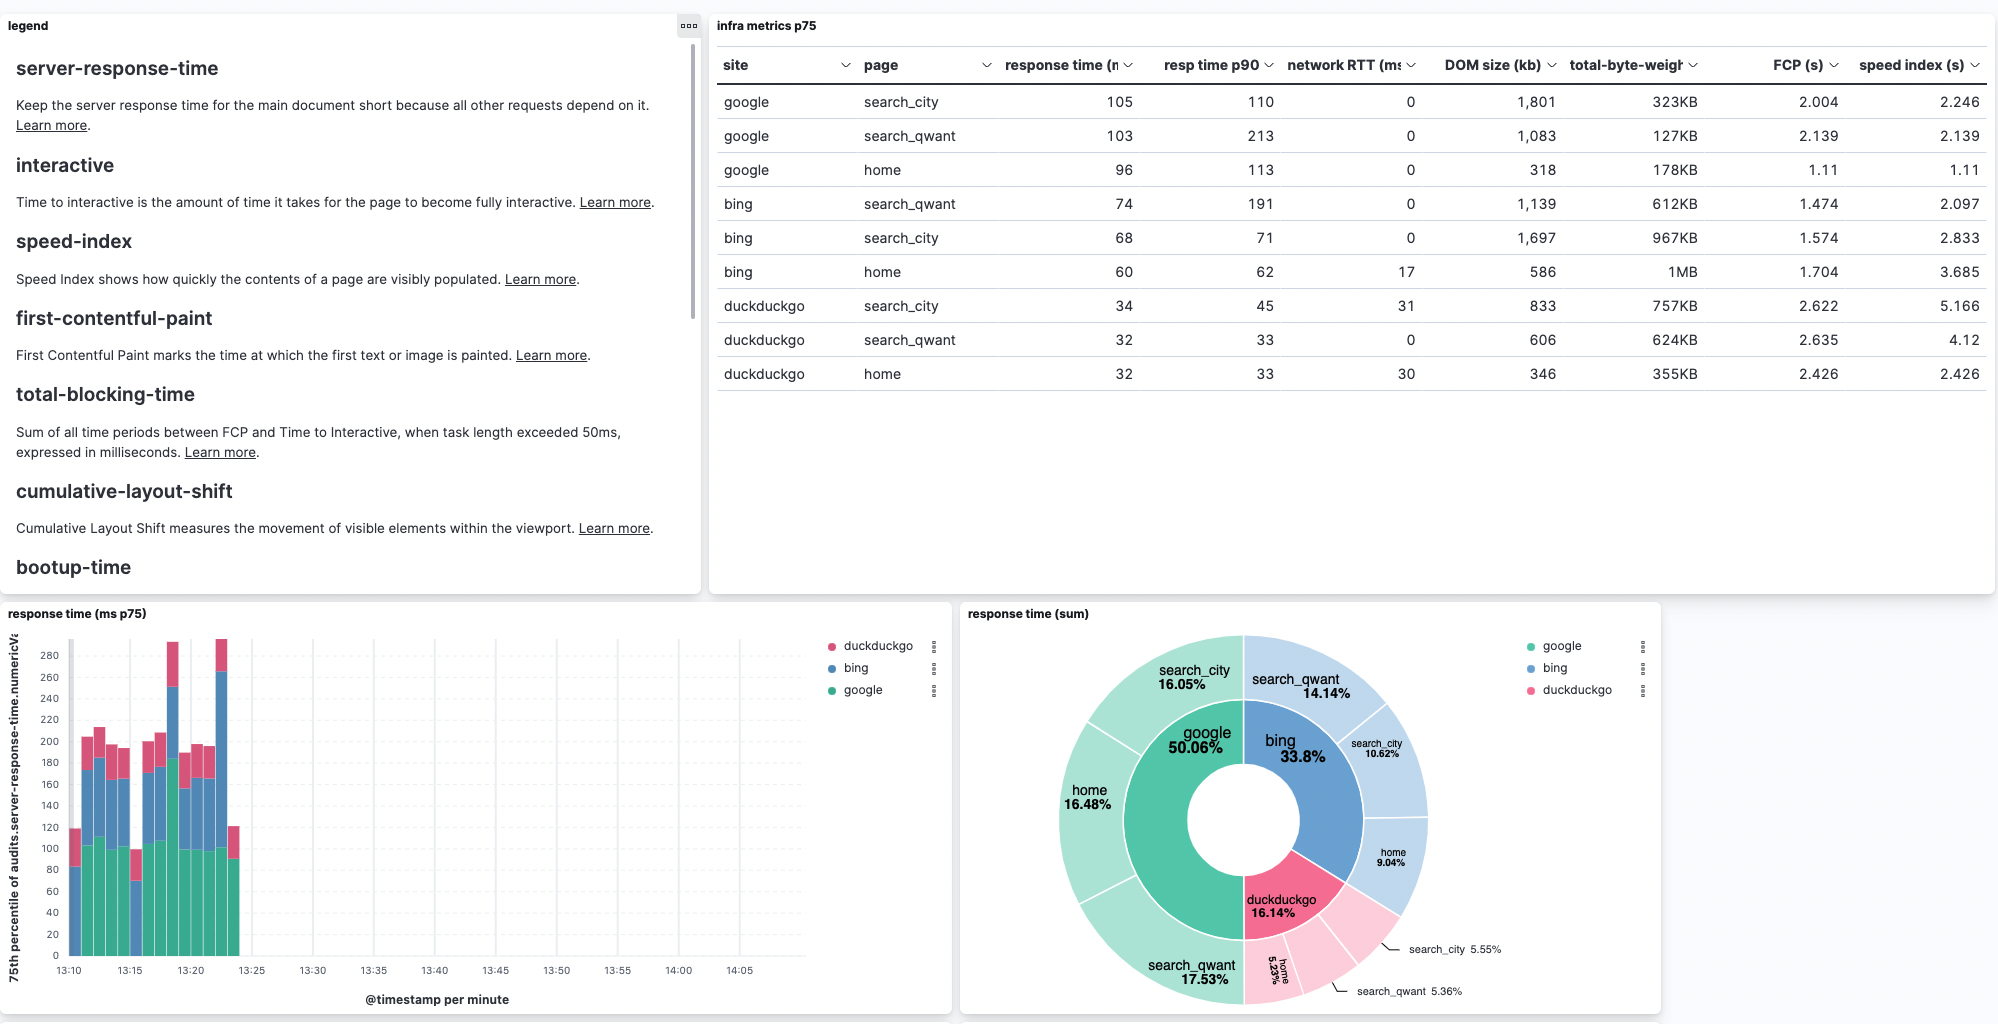
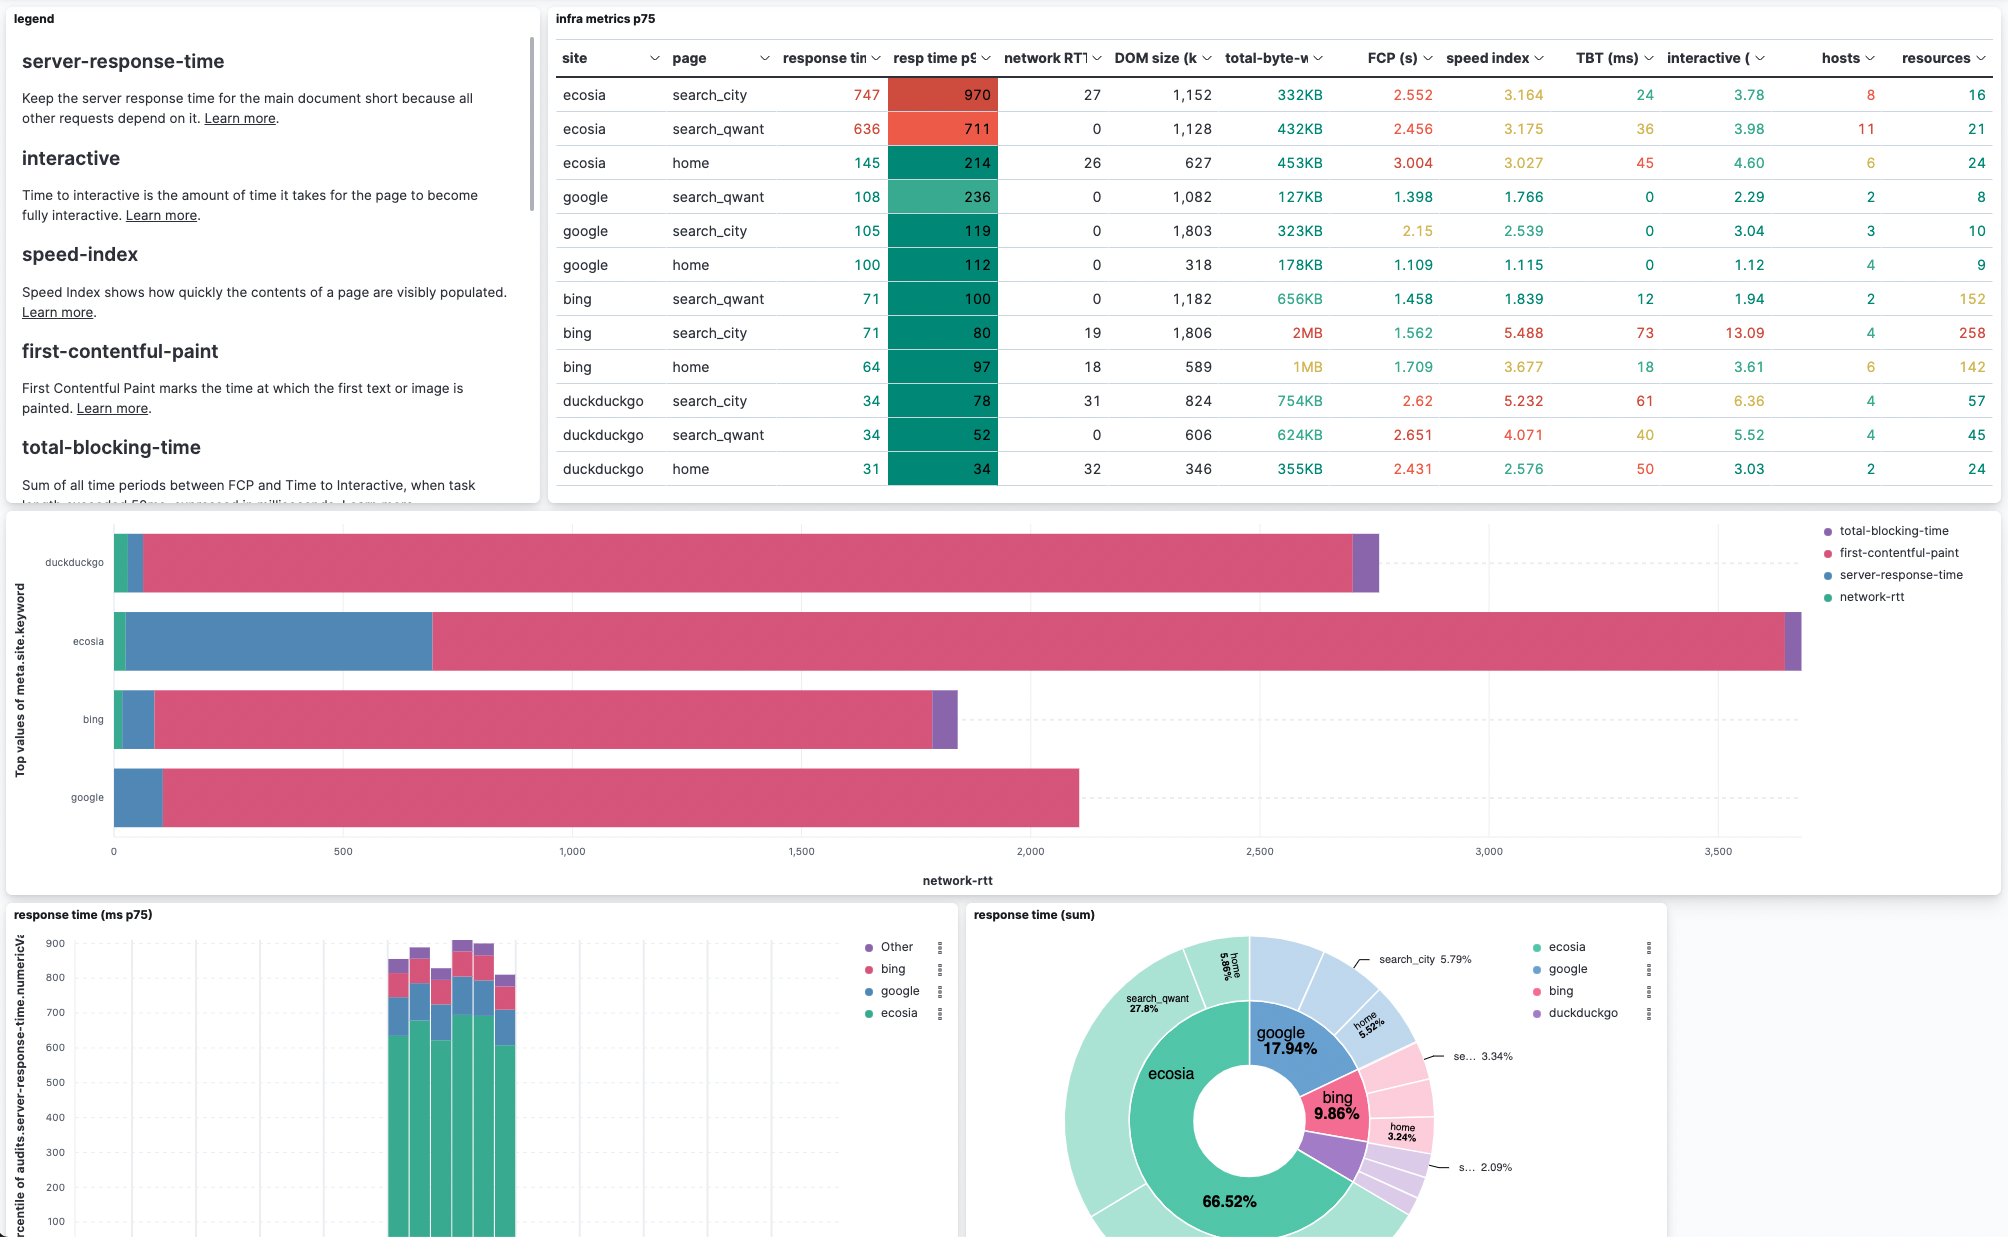
update screenshot

diff --git a/index.js b/index.js
@@ -2,6 +2,8 @@ const { Client } = require('@elastic/elasticsearch')
 const logger = require('loglevel')
 const lighthouse = require('lighthouse');
 const chromeLauncher = require('chrome-launcher');
+const { getSystemErrorMap } = require('util');
+const { exit } = require('process');
 
 const client = new Client({
   node: 'http://localhost:9200'
@@ -66,6 +68,21 @@ const urls = [
     {
         "site": "bing",
         "url" : "https://www.bing.com/search?q=qwant&form=QBLH&sp=-1&pq=toul&sc=8-4&qs=n&sk=&",
+        "name" : "search_qwant"
+    },
+    {
+        "site": "ecosia",
+        "url" : "https://www.ecosia.org/",
+        "name" : "home"
+    },
+    {
+        "site": "ecosia",
+        "url" : "https://www.ecosia.org/search?q=toulon",
+        "name" : "search_city"
+    },
+    {
+        "site": "ecosia",
+        "url" : "https://www.ecosia.org/search?q=qwant",
         "name" : "search_qwant"
     }
 ]
@@ -139,18 +156,38 @@ async function run () {
 
         const runnerResult = await lighthouse(urlToCrawl.url, options, lhConfig);
 
-        const auditsList = Object.values(runnerResult.lhr.audits)
-        .filter(audit => {
-            return audit.hasOwnProperty("numericValue") && audit.numericValue !== null
-        }).map(audit => {
-            return {
-                id: audit.id,
-                title: audit.title,
-                numericValue: audit.numericValue,
-                numericUnit: audit.numericUnit,
-                displayValue: audit.displayValue
-            }
-        })
+        const auditDomains = {
+            id: 'network-hosts-count',
+            title: 'Distinct hosts',
+            numericValue: runnerResult.lhr.audits['network-server-latency'].details.items.length,
+            numericUnit: "",
+            displayValue: ""
+        }
+
+        const auditResourceSummary = {
+            id: 'resource-summary-v2',
+            title: 'Resource summary',
+            numericValue: runnerResult.lhr.audits['resource-summary'].details.items[0].requestCount,
+            numericUnit: "",
+            displayValue: ""
+        }
+
+        const auditsList = Object
+            .values(runnerResult.lhr.audits)
+            .filter(audit => {
+                return typeof audit.numericValue != 'undefined'
+            }).map(audit => {
+                return {
+                    id: audit.id,
+                    title: audit.title,
+                    numericValue: audit.numericValue,
+                    numericUnit: audit.numericUnit,
+                    displayValue: audit.displayValue
+                }
+            })
+
+        auditsList.push(auditDomains)
+        auditsList.push(auditResourceSummary)
 
         const audits = Object.assign({}, ...auditsList.map((x) => ({[x.id]: x})));
 
